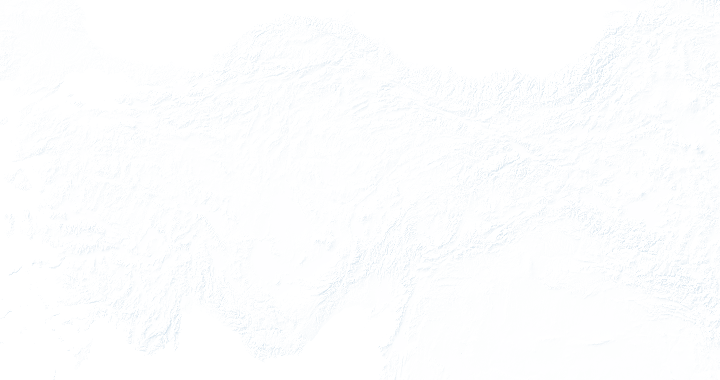
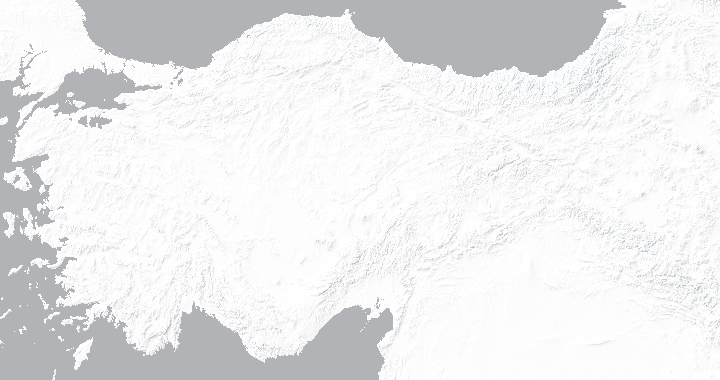
feat(map): improve terrain relief with bidirectional hillshade
Render both shadowed and sun-lit slopes so the relief reads as 3D
terrain instead of one-sided noise; soften shadow alpha and add a
warm highlight tint for the light theme and pale highlights for the
dark theme.

Generated with [Devin](https://devin.ai)

diff --git a/artifacts/geokpss-mobile/scripts/generate-relief.py b/artifacts/geokpss-mobile/scripts/generate-relief.py
@@ -110,7 +110,7 @@ def main():
     dlon = 0.008
     dlat = 0.008
 
-    darkness_map = np.zeros((OUT_H, OUT_W), dtype=np.float32)
+    hs_map = np.zeros((OUT_H, OUT_W), dtype=np.float32)
     lats = MAX_LAT - (np.arange(OUT_H) + 0.5) / OUT_H * VIEW_H / 29.1
 
     for py in range(OUT_H):
@@ -132,26 +132,34 @@ def main():
             aspect = math.atan2(dzdy, dzdx)
             hs = (math.cos(ALTITUDE) * math.cos(slope)
                   + math.sin(ALTITUDE) * math.sin(slope) * math.cos(AZIMUTH - aspect))
-            # hs in [-1,1] roughly [0,1]; shadow where darker than ~0.72
-            darkness_map[py, px] = max(0.0, min(1.0, (0.72 - hs) * 2.8))
+            hs_map[py, px] = hs
 
     os.makedirs(OUT_DIR, exist_ok=True)
-    # Two variants: dark slate strokes for light theme, pale strokes for dark theme.
-    variants = [
-        ("relief-turkey.png", (22, 52, 66), 170),
-        ("relief-turkey-dark.png", (178, 205, 224), 120),
-    ]
-    for filename, rgb, max_alpha in variants:
+    # hillshade ~[0,1]: shadowed slopes below ~0.70, lit slopes above ~0.74.
+    # Both directions are rendered so relief reads as 3D, not just noise.
+    shadow = np.clip((0.72 - hs_map) * 2.6, 0.0, 1.0)
+    lit = np.clip((hs_map - 0.74) * 3.0, 0.0, 1.0)
+
+    def render(shadow_rgb, shadow_alpha, lit_rgb, lit_alpha, filename):
         rgba = np.zeros((OUT_H, OUT_W, 4), dtype=np.uint8)
-        alpha = np.clip(darkness_map * max_alpha, 0, 255).astype(np.uint8)
-        mask = alpha > 0
-        rgba[mask, 0] = rgb[0]
-        rgba[mask, 1] = rgb[1]
-        rgba[mask, 2] = rgb[2]
-        rgba[mask, 3] = alpha[mask]
+        s = np.clip(shadow * shadow_alpha, 0, 255).astype(np.uint8)
+        l = np.clip(lit * lit_alpha, 0, 255).astype(np.uint8)
+        smask = s > 0
+        lmask = (l > 0) & ~smask
+        rgba[smask, 0] = shadow_rgb[0]
+        rgba[smask, 1] = shadow_rgb[1]
+        rgba[smask, 2] = shadow_rgb[2]
+        rgba[smask, 3] = s[smask]
+        rgba[lmask, 0] = lit_rgb[0]
+        rgba[lmask, 1] = lit_rgb[1]
+        rgba[lmask, 2] = lit_rgb[2]
+        rgba[lmask, 3] = l[lmask]
         path = os.path.join(OUT_DIR, filename)
         Image.fromarray(rgba, "RGBA").save(path)
         print(f"wrote {path} ({OUT_W}x{OUT_H})")
+
+    render((30, 62, 84), 150, (255, 246, 224), 55, "relief-turkey.png")
+    render((8, 14, 24), 80, (196, 220, 240), 105, "relief-turkey-dark.png")
 
 
 if __name__ == "__main__":
